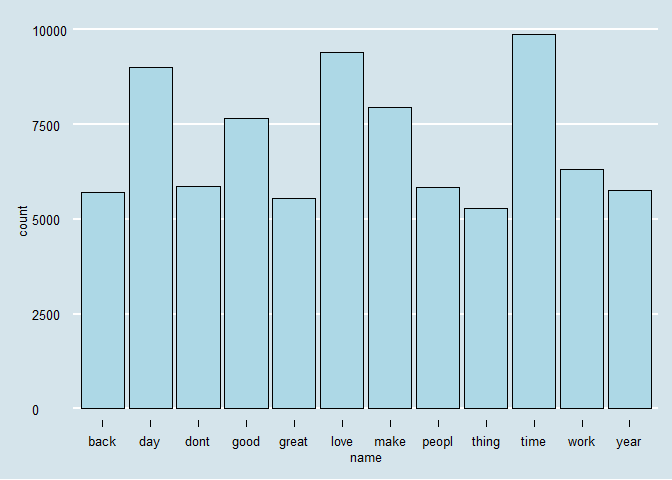
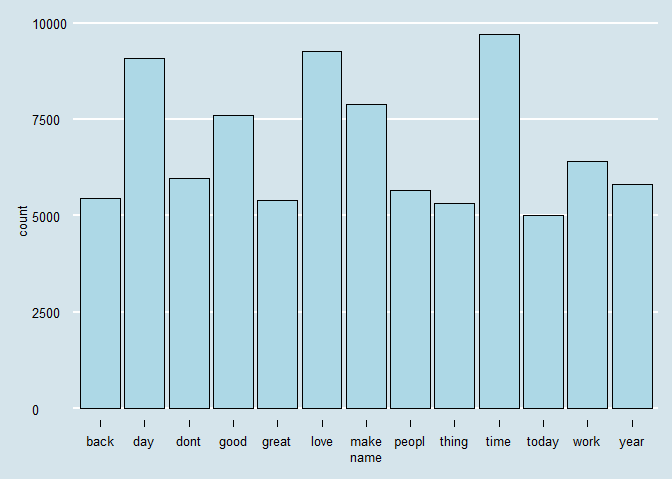
Update task 1, nearing completion.

diff --git a/01_Task_Script.md b/01_Task_Script.md
@@ -28,6 +28,33 @@ library(tidyverse)
     ## filter():   dplyr, stats
     ## lag():      dplyr, stats
 
+``` r
+library(dplyr)
+library(data.table)
+```
+
+    ## -------------------------------------------------------------------------
+
+    ## data.table + dplyr code now lives in dtplyr.
+    ## Please library(dtplyr)!
+
+    ## -------------------------------------------------------------------------
+
+    ## 
+    ## Attaching package: 'data.table'
+
+    ## The following objects are masked from 'package:dplyr':
+    ## 
+    ##     between, last
+
+    ## The following object is masked from 'package:purrr':
+    ## 
+    ##     transpose
+
+``` r
+library(ggthemes)
+```
+
 1. Download and explore the data
 --------------------------------
 
@@ -58,8 +85,8 @@ twitter_file <- "./data/final/en_US/en_US.twitter.txt"
 File Sizes (Mb)
 
 ``` r
-blogs_size <- file.size(blogs_file) / (2^20)
-news_size  <- file.size(news_file) / (2^20)
+blogs_size   <- file.size(blogs_file) / (2^20)
+news_size    <- file.size(news_file) / (2^20)
 twitter_size <- file.size(twitter_file) / (2^20)
 ```
 
@@ -80,22 +107,23 @@ twitter <- readLines(twitter_file, skipNul = TRUE)
 Number of Lines per file
 
 ``` r
-blogs_lines <- length(blogs)
-news_lines  <- length(news)
+blogs_lines   <- length(blogs)
+news_lines    <- length(news)
 twitter_lines <- length(twitter)
-total_lines  <- blogs_lines + news_lines + twitter_lines
+total_lines   <- blogs_lines + news_lines + twitter_lines
 ```
 
 Distibution of characters per line, by file
 
 ``` r
-blogs_nchar <- nchar(blogs)
-news_nchar  <- nchar(news)
+blogs_nchar   <- nchar(blogs)
+news_nchar    <- nchar(news)
 twitter_nchar <- nchar(twitter)
+
 boxplot(blogs_nchar, news_nchar, twitter_nchar, log = "y",
         names = c("blogs", "news", "twitter"),
         ylab = "log(Number of Characters)", xlab = "File Name")
-title("Comparing Distributions of Chracters per Line")
+        title("Comparing Distributions of Chracters per Line")
 ```
 
 ![](01_Task_Script_files/figure-markdown_github-ascii_identifiers/unnamed-chunk-8-1.png)
@@ -103,48 +131,48 @@ title("Comparing Distributions of Chracters per Line")
 Max characters in a line, by file (longest line)
 
 ``` r
-blogs_nchar_max <- max(blogs_nchar)
-news_nchar_max  <- max(news_nchar)
+blogs_nchar_max   <- max(blogs_nchar)
+news_nchar_max    <- max(news_nchar)
 twitter_nchar_max <- max(twitter_nchar)
 ```
 
 Median characters per file
 
 ``` r
-blogs_nchar_med <- median(blogs_nchar)
-news_nchar_med  <- median(news_nchar)
+blogs_nchar_med   <- median(blogs_nchar)
+news_nchar_med    <- median(news_nchar)
 twitter_nchar_med <- median(twitter_nchar)
 ```
 
 Total characters per file
 
 ``` r
-blogs_nchar_sum <- sum(blogs_nchar)
-news_nchar_sum  <- sum(news_nchar)
+blogs_nchar_sum   <- sum(blogs_nchar)
+news_nchar_sum    <- sum(news_nchar)
 twitter_nchar_sum <- sum(twitter_nchar)
 ```
 
 Create summary of repo stats
 
 ``` r
-repo_summary <- data.frame(file_names = c("blogs", "news", "twitter"),
-                           file_size  = c(blogs_size, news_size, twitter_size),
-                           file_lines = c(blogs_lines, news_lines, twitter_lines),
-                           #nchar_max  = c(blogs_nchar_max, news_nchar_max, twitter_nchar_max),
-                           #nchar_med =  c(blogs_nchar_med, news_nchar_med, twitter_nchar_med),
+repo_summary <- data.frame(f_names = c("blogs", "news", "twitter"),
+                           f_size  = c(blogs_size, news_size, twitter_size),
+                           f_lines = c(blogs_lines, news_lines, twitter_lines),
+                           nchar_max  = c(blogs_nchar_max, news_nchar_max, twitter_nchar_max),
+                           nchar_med =  c(blogs_nchar_med, news_nchar_med, twitter_nchar_med),
                            nchar_sum =  c(blogs_nchar_sum, news_nchar_sum, twitter_nchar_sum))
 
 
 repo_summary <- repo_summary %>% mutate(pct_nchar = round(nchar_sum/sum(nchar_sum), 2))
-repo_summary <- repo_summary %>% mutate(pct_lines = round(file_lines/sum(file_lines), 2))
+repo_summary <- repo_summary %>% mutate(pct_lines = round(f_lines/sum(f_lines), 2))
 kable(repo_summary)
 ```
 
-| file\_names |  file\_size|  file\_lines|  nchar\_sum|  pct\_nchar|  pct\_lines|
-|:------------|-----------:|------------:|-----------:|-----------:|-----------:|
-| blogs       |    200.4242|       899288|   208361438|        0.54|        0.27|
-| news        |    196.2775|        77259|    15683765|        0.04|        0.02|
-| twitter     |    159.3641|      2360148|   162385035|        0.42|        0.71|
+| f\_names |   f\_size|  f\_lines|  nchar\_max|  nchar\_med|  nchar\_sum|  pct\_nchar|  pct\_lines|
+|:---------|---------:|---------:|-----------:|-----------:|-----------:|-----------:|-----------:|
+| blogs    |  200.4242|    899288|       40835|         157|   208361438|        0.54|        0.27|
+| news     |  196.2775|     77259|        5760|         186|    15683765|        0.04|        0.02|
+| twitter  |  159.3641|   2360148|         213|          64|   162385035|        0.42|        0.71|
 
 2. Sample the data and save the sample
 --------------------------------------
@@ -153,6 +181,7 @@ Compute sample sizes in terms of lines
 
 ``` r
 sample_pct = 0.05
+set.seed(1001)
 blogs_size <- blogs_lines * sample_pct
 news_size  <- news_lines * sample_pct
 twitter_size <- twitter_lines * sample_pct
@@ -176,18 +205,22 @@ saveRDS(repo_sample, file = "./data/final/en_US/repo_sample.RData" )
 ########################## START HERE ############### SEE LAST TAB
 ```
 
-["Test Mining Tutorial"](%22https://www.hackerearth.com/fr/practice/machine-learning/advanced-techniques/text-mining-feature-engineering-r/tutorial/%22) \#\# 3. Clean the sample data Use `tm` to create and clean the corpus
+[Test Mining Tutorial](%22https://www.hackerearth.com/fr/practice/machine-learning/advanced-techniques/text-mining-feature-engineering-r/tutorial/%22)
+
+3. Clean the sample data
+------------------------
+
+Use `tm` to create and clean the corpus
 
 ``` r
 clean_sample <- Corpus(VectorSource(repo_sample),
                        readerControl = list(readPlain, 
                                             language = "en",
                                             load = TRUE))
-
 print(as.character(clean_sample[[1]]))
 ```
 
-    ## [1] "Since Greek sports were preformed in the nude and much of cultured society revolved around the gymnasium, it was difficult for a circumcised Jew to participate without being exposing themselves to ridicule. Many Jews simply refused to participate, others either did not circumcise their children so that they could participate in Greek culture. Some chose to submit to an extremely painful procedure to reverse their circumcision."
+    ## [1] "Love the use of onomatopoeia, and I wish they made dumplings with just scallions and cabbage. But there are plenty of places on 8th where you can buy dumplings (veggie or otherwise) for 4 for a dollar or so. Several places that look like they don't sell anything (just a white booth with a see-through window) actually sell delicious stuff to take home a cook. It's inexpensive and usually quite good. Enjoy."
 
 Transform sample to all lower case
 
@@ -205,10 +238,6 @@ clean_sample <- tm_map(clean_sample, content_transformer(removeURL))
 # Remove anything other than English letters or space
 removeNumPunct <- function(x) gsub("[^[:alpha:][:space:]]*", "", x)
 clean_sample <- tm_map(clean_sample, content_transformer(removeNumPunct))
-
-# #' Remove punctuaton and numbers (replaced by last call)
-# clean_sample <- tm_map(clean_sample, removePunctuation)
-# clean_sample <- tm_map(clean_sample, removeNumbers)
 ```
 
 Create profanity filter
@@ -232,18 +261,24 @@ clean_sample <- tm_map(clean_sample, removeWords, stopwords("SMART"))
 print(as.character(clean_sample[[1]]))
 ```
 
-    ## [1] " greek sports  preformed       cultured society revolved   gymnasium   difficult   circumcised jew  participate   exposing   ridicule  jews simply refused  participate     circumcise  children     participate  greek culture  chose  submit   extremely painful procedure  reverse  circumcision"
+    ## [1] "love    onomatopoeia     made dumplings   scallions  cabbage    plenty  places      buy dumplings veggie       dollar    places     dont sell    white booth   seethrough window  sell delicious stuff   home  cook  inexpensive    good enjoy"
 
 Remove Whitespace
 
 ``` r
 clean_sample <- tm_map(clean_sample, stripWhitespace)
+print(as.character(clean_sample[[1]]))
 ```
+
+    ## [1] "love onomatopoeia made dumplings scallions cabbage plenty places buy dumplings veggie dollar places dont sell white booth seethrough window sell delicious stuff home cook inexpensive good enjoy"
 
 Save clean corpus
 
 ``` r
 saveRDS(clean_sample, file = "./data/final/en_US/clean_sample.RData" )
+
+
+###### CONSIDER SPLIT TO 02 HERE
 ```
 
 Convert to text document
@@ -256,13 +291,13 @@ text_corpus <- tm_map(text_corpus, stemDocument,language = "english")
 print(as.character(text_corpus[[1]]))
 ```
 
-    ## [1] " greek sport preform cultur societi revolv gymnasium difficult circumcis jew particip expos ridicul jew simpli refus particip circumcis children particip greek cultur chose submit extrem pain procedur revers circumcis"
+    ## [1] "love onomatopoeia made dumpl scallion cabbag plenti place buy dumpl veggi dollar place dont sell white booth seethrough window sell delici stuff home cook inexpens good enjoy"
 
 ``` r
 text_corpus[[1]]$content
 ```
 
-    ## [1] " greek sport preform cultur societi revolv gymnasium difficult circumcis jew particip expos ridicul jew simpli refus particip circumcis children particip greek cultur chose submit extrem pain procedur revers circumcis"
+    ## [1] "love onomatopoeia made dumpl scallion cabbag plenti place buy dumpl veggi dollar place dont sell white booth seethrough window sell delici stuff home cook inexpens good enjoy"
 
 ``` r
 #convert to document term matrix
@@ -270,44 +305,22 @@ docterm_corpus <- DocumentTermMatrix(text_corpus)
 dim(docterm_corpus)
 ```
 
-    ## [1] 166833  95978
+    ## [1] 166833  95939
 
 ``` r
 new_docterm_corpus <- removeSparseTerms(docterm_corpus,sparse = 0.99)
 dim(new_docterm_corpus)
 ```
 
-    ## [1] 166833     74
+    ## [1] 166833     73
 
 ``` r
 #find frequent terms
-library(data.table)
-```
-
-    ## -------------------------------------------------------------------------
-
-    ## data.table + dplyr code now lives in dtplyr.
-    ## Please library(dtplyr)!
-
-    ## -------------------------------------------------------------------------
-
-    ## 
-    ## Attaching package: 'data.table'
-
-    ## The following objects are masked from 'package:dplyr':
-    ## 
-    ##     between, last
-
-    ## The following object is masked from 'package:purrr':
-    ## 
-    ##     transpose
-
-``` r
 colS <- colSums(as.matrix(new_docterm_corpus))
 length(colS)
 ```
 
-    ## [1] 74
+    ## [1] 73
 
 ``` r
 doc_features <- data.table(name = attributes(colS)$names, count = colS)
@@ -317,37 +330,34 @@ doc_features[order(-count)][1:10] #top 10 most frequent words
 ```
 
     ##      name count
-    ##  1:  time  9876
-    ##  2:  love  9400
-    ##  3:   day  9011
-    ##  4:  make  7960
-    ##  5:  good  7666
-    ##  6:  work  6327
-    ##  7:  dont  5867
-    ##  8: peopl  5830
-    ##  9:  year  5764
-    ## 10:  back  5709
+    ##  1:  time  9699
+    ##  2:  love  9256
+    ##  3:   day  9085
+    ##  4:  make  7885
+    ##  5:  good  7602
+    ##  6:  work  6398
+    ##  7:  dont  5975
+    ##  8:  year  5814
+    ##  9: peopl  5664
+    ## 10:  back  5457
 
 ``` r
 doc_features[order(count)][1:10] #least 10 frequent words
 ```
 
     ##         name count
-    ##  1: tomorrow  1719
-    ##  2:    final  1753
-    ##  3:      bad  1782
-    ##  4:    tweet  1817
-    ##  5:    didnt  1833
-    ##  6:     turn  1842
-    ##  7:    check  1843
-    ##  8:     hous  1867
-    ##  9:     open  1896
-    ## 10:   famili  1911
+    ##  1: tomorrow  1702
+    ##  2:    enjoy  1760
+    ##  3:    didnt  1778
+    ##  4:    final  1782
+    ##  5:    tweet  1849
+    ##  6:    check  1859
+    ##  7:     hous  1881
+    ##  8:     open  1898
+    ##  9:     stop  1901
+    ## 10:   famili  1906
 
 ``` r
-library(ggplot2)
-library(ggthemes)
-
 ggplot(doc_features[count>5000],aes(name, count)) +
   geom_bar(stat = "identity",fill='lightblue',color='black') +
   theme(axis.text.x = element_text(angle = 45, hjust = 1)) +
@@ -368,54 +378,15 @@ library(wordcloud)
     ## Loading required package: RColorBrewer
 
 ``` r
-wordcloud(names(colS), colS, min.freq = 500, scale = c(6,.1), 
-          colors = brewer.pal(6, 'Dark2'))  
+wordcloud(names(colS), colS, min.freq = 500, 
+          colors = brewer.pal(6, 'Dark2'), random.order = FALSE)  
 ```
-
-    ## Warning in wordcloud(names(colS), colS, min.freq = 500, scale = c(6,
-    ## 0.1), : good could not be fit on page. It will not be plotted.
-
-    ## Warning in wordcloud(names(colS), colS, min.freq = 500, scale = c(6,
-    ## 0.1), : time could not be fit on page. It will not be plotted.
-
-    ## Warning in wordcloud(names(colS), colS, min.freq = 500, scale = c(6,
-    ## 0.1), : make could not be fit on page. It will not be plotted.
-
-    ## Warning in wordcloud(names(colS), colS, min.freq = 500, scale = c(6,
-    ## 0.1), : dont could not be fit on page. It will not be plotted.
-
-    ## Warning in wordcloud(names(colS), colS, min.freq = 500, scale = c(6,
-    ## 0.1), : back could not be fit on page. It will not be plotted.
 
 ![](01_Task_Script_files/figure-markdown_github-ascii_identifiers/unnamed-chunk-24-2.png)
 
 ``` r
-wordcloud(names(colS), colS, min.freq = 2000, scale = c(6,.1), 
-          colors = brewer.pal(6, 'Dark2'))  
+wordcloud(names(colS), colS, min.freq = 2000, 
+          colors = brewer.pal(6, 'Dark2'), random.order = FALSE)  
 ```
 
-    ## Warning in wordcloud(names(colS), colS, min.freq = 2000, scale = c(6,
-    ## 0.1), : good could not be fit on page. It will not be plotted.
-
-    ## Warning in wordcloud(names(colS), colS, min.freq = 2000, scale = c(6,
-    ## 0.1), : time could not be fit on page. It will not be plotted.
-
-    ## Warning in wordcloud(names(colS), colS, min.freq = 2000, scale = c(6,
-    ## 0.1), : peopl could not be fit on page. It will not be plotted.
-
-    ## Warning in wordcloud(names(colS), colS, min.freq = 2000, scale = c(6,
-    ## 0.1), : great could not be fit on page. It will not be plotted.
-
 ![](01_Task_Script_files/figure-markdown_github-ascii_identifiers/unnamed-chunk-24-3.png)
-
-' Create copy of corpus for stem completion
-===========================================
-
-clean\_sample\_copy &lt;- clean\_sample
-
-' Stem the document
-===================
-
-clean\_sample &lt;- tm\_map(clean\_sample, stemDocument)
-
-saveRDS(dtm, file = "./data/final/en\_US/dtm.RData")
